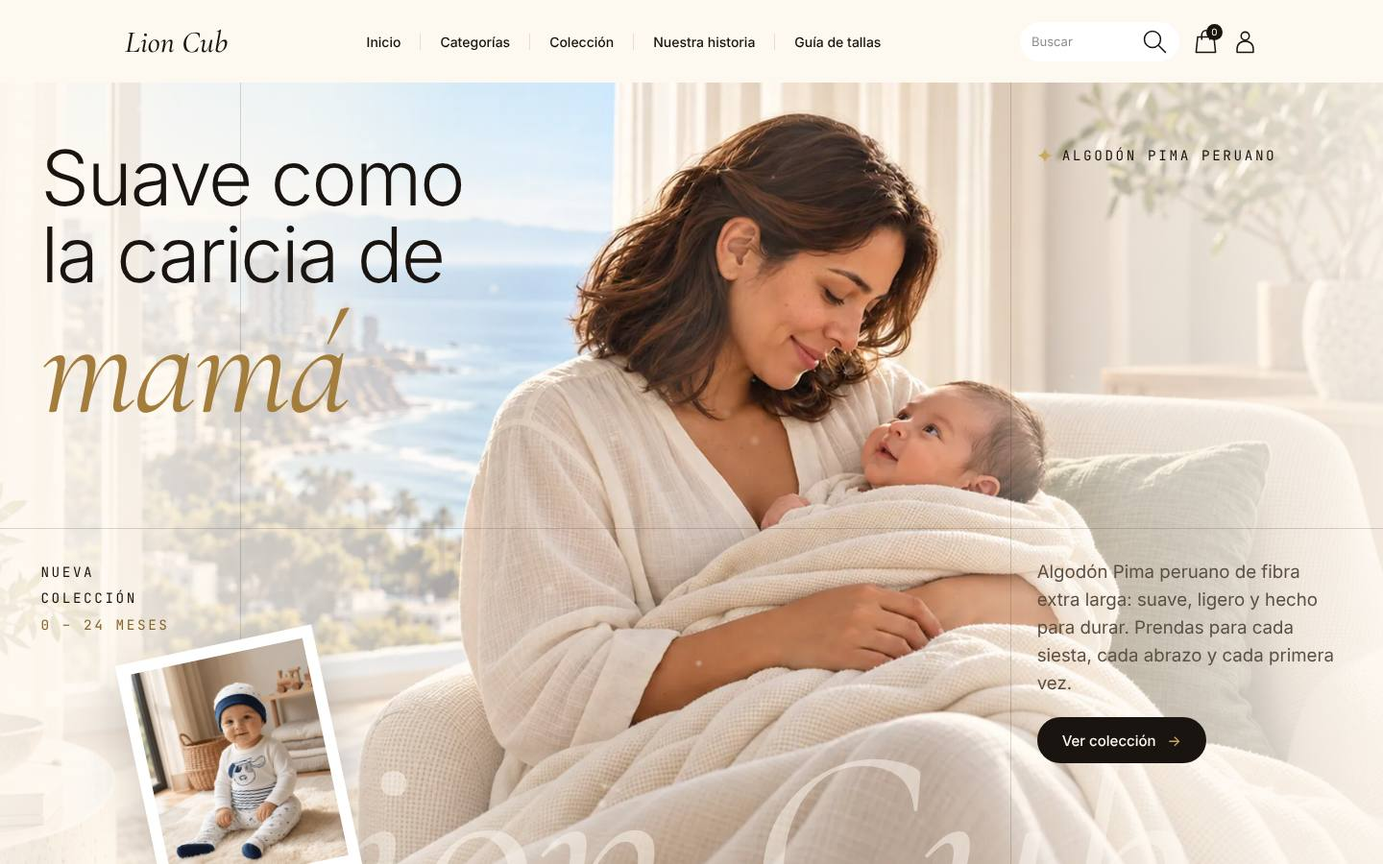
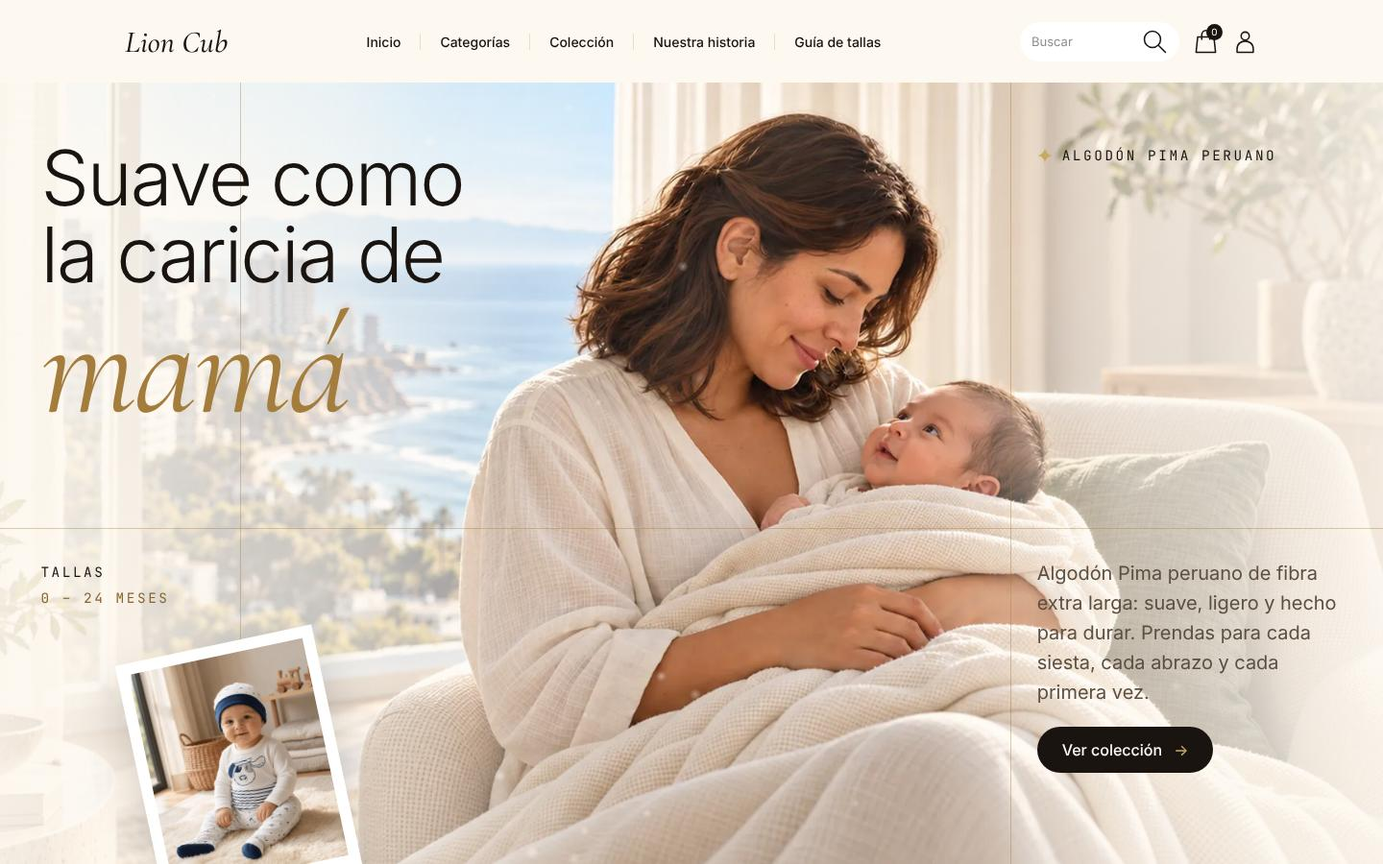
fix(home): correcciones del auditor de diseño en Fase H1
- Tablet (761–1024 px): el hero usa la distribución vertical; sin min-width que corte el texto.
- Sin marca de agua sobre la foto (IDENTIDAD §1).
- Entradas de 400 ms; texto corrido a 16 px; sin corazones decorativos ni ♥ leído por lectores.
- Carrusel con marco recto, texto a la izquierda y «Ver …» en vez de «Descubre …».
- «Tallas 0 – 24 meses» en lugar de «Nueva colección»; colores fuera de tokens corregidos.
- Capturas nuevas a 1440, 768 y 375 con imágenes cargadas; DT-30 a DT-35.

Claude-Session: https://claude.ai/code/session_01RGj7kZrHtgLxWEaSBArxwM

diff --git a/app/data/lion-cub-body.ts b/app/data/lion-cub-body.ts
@@ -3,14 +3,14 @@
 export const LION_CUB_BODY = `<svg width="0" height="0" style="position:absolute" aria-hidden="true"><defs><clipPath id="blob" clipPathUnits="objectBoundingBox"><path d="M.12,.12 C.2,.02 .34,.1 .47,.035 C.59,-.02 .67,.08 .8,.07 C.96,.055 1,.2 .97,.35 C.93,.5 1,.67 .93,.83 C.86,1 .7,.92 .55,.97 C.39,1 .3,.9 .14,.93 C-.04,.96 .02,.73 .045,.58 C.065,.42 .045,.25 .12,.12Z"/></clipPath><clipPath id="ageCut" clipPathUnits="objectBoundingBox"><path d="M.1,0 H.9 Q1,0 1,.1 V.9 Q1,1 .9,1 H.7 Q.62,1 .62,.92 Q.62,.83 .54,.83 H0 V.1 Q0,0 .1,0Z"/></clipPath>
 <symbol id="i-heart" viewBox="0 0 32 32"><path d="M15 28C12 24 1 17 3 9C5 1 14 3 16 10C20 1 29 5 28 12C27 19 19 25 15 28Z"/></symbol><symbol id="i-cloud" viewBox="0 0 50 35"><path d="M9 30C2 31-2 23 4 19Q6 17 10 18C3 7 15 1 21 9C21-2 38-1 38 11C49 8 52 21 43 24C49 32 36 35 32 29Q27 35 21 30Q15 34 9 30Z"/></symbol><symbol id="i-sun" viewBox="0 0 60 60"><circle cx="30" cy="30" r="14"/><path d="M30 2V9M30 51V58M2 30H9M51 30H58M10 10L15 15M45 45L50 50M10 50L15 45M45 15L50 10"/></symbol><symbol id="i-bag" viewBox="0 0 32 32"><path d="M6 10H26L28 29H4Z M11 13V8C11 0 21 0 21 8V13"/></symbol><symbol id="i-user" viewBox="0 0 32 32"><circle cx="16" cy="9" r="5"/><path d="M6 29V25C6 12 26 12 26 25V29Z"/></symbol><symbol id="i-search" viewBox="0 0 32 32"><circle cx="13" cy="13" r="10"/><path d="M21 21L29 29"/></symbol><symbol id="i-leaf" viewBox="0 0 40 40"><path d="M9 30C-2 18 11 7 32 5C35 20 25 34 9 30Z M4 37Q13 20 28 10 M13 24Q12 19 13 15 M19 19Q24 20 28 18"/></symbol><symbol id="i-truck" viewBox="0 0 34 32"><path d="M2 6H21V24H2ZM21 13H28L33 20V24H21"/><circle cx="8" cy="25" r="3"/><circle cx="27" cy="25" r="3"/></symbol><symbol id="i-shield" viewBox="0 0 32 32"><path d="M16 2L28 7V17Q26 25 16 30Q6 25 4 17V7ZM10 15L14 19L22 11"/></symbol><symbol id="i-move" viewBox="0 0 50 50"><path d="M14 10C8 8 5 13 7 20L10 28C8 34 11 40 18 40L35 37C41 36 44 32 41 28C39 25 33 26 29 25L24 12C22 7 17 7 14 10Z M10 28Q18 31 25 26 M12 14L21 12 M12 18L23 16 M9 38Q22 44 38 36"/><path d="M32 12Q38 9 40 5M36 18L45 16"/></symbol></defs></svg>
 <header class="wrap"><button class="hamburger" aria-label="Abrir menú" aria-expanded="false">☰</button><a href="#inicio" class="brand">Lion Cub<b>♥</b><svg class="brand-trail" viewBox="0 0 170 30" aria-hidden="true"><path d="M2 17C25 5 50 26 82 17S105 2 111 8S100 26 94 18S137 6 162 15"/><path d="M157 10L164 15L158 20"/></svg></a><nav aria-label="Navegación principal"><a href="#inicio">Inicio</a><details><summary>Categorías</summary><div class="drop"><a href="#edades">Compra por edad</a><button data-category="Conjuntos">Conjuntos y ajuares</button><button data-category="Bodies">Bodies</button><button data-category="Mantas">Mantas</button><button data-category="Pantalones">Pantalones</button></div></details><a href="#favoritos">Colección</a><a href="#historia">Nuestra historia</a><button data-info="tallas">Guía de tallas</button></nav><div class="tools"><form class="search" id="header-search"><input aria-label="Buscar prendas" placeholder="Buscar"><button aria-label="Buscar"><svg class="icon"><use href="#i-search"/></svg></button></form><button class="bag" aria-label="Abrir bolsa"><svg class="icon"><use href="#i-bag"/></svg><span class="count">0</span></button><a class="account" href="/login" aria-label="Mi cuenta"><svg class="icon"><use href="#i-user"/></svg></a></div></header>
-<main><section class="hx" id="inicio" aria-label="Lion Cub, algodón Pima peruano para bebés"><div class="hx-frame"><picture class="hx-photo"><source media="(max-width: 760px)" srcset="/hero/poster-mobile.webp" width="1080" height="1920"><img src="/hero/poster-desktop.webp" width="1920" height="1080" fetchpriority="high" decoding="async" alt="Mamá sonriendo mientras sostiene a su bebé envuelto en una manta de algodón, junto a una ventana con vista al mar"></picture><div class="hx-fx" aria-hidden="true"></div><div class="hx-rays" aria-hidden="true"></div><canvas class="hx-motes" data-motes="1" aria-hidden="true"></canvas><div class="hx-veil" aria-hidden="true"></div><div class="hx-mark" aria-hidden="true">Lion Cub</div><div class="hx-grid" aria-hidden="true"><i class="hx-gv1"></i><i class="hx-gv2"></i><i class="hx-gh"></i></div><p class="hx-eyebrow hx-in" style="--d:.15s"><svg viewBox="0 0 24 24" aria-hidden="true"><path d="M12 0c.6 6.6 5.4 11.4 12 12-6.6.6-11.4 5.4-12 12-.6-6.6-5.4-11.4-12-12C6.6 11.4 11.4 6.6 12 0z"/></svg>Algodón Pima peruano</p><h1 class="hx-title"><span class="hx-in" style="--d:.25s">Suave como</span><span class="hx-in" style="--d:.4s">la caricia de</span><em class="hx-in" style="--d:.55s">mamá</em></h1><p class="hx-meta hx-in" style="--d:.8s">Nueva<br>colección<br><b>0 – 24 meses</b></p><div class="hx-copy hx-in" style="--d:.85s"><p>Algodón Pima peruano de fibra extra larga: suave, ligero y hecho para durar. Prendas para cada siesta, cada abrazo y cada primera vez.</p><a class="hx-cta" href="#favoritos">Ver colección <span aria-hidden="true">→</span></a></div><button class="hx-pola" data-product="0" aria-label="Ver Navy Puppy"><img src="/lc-imgs/p0.webp" width="828" height="828" loading="lazy" decoding="async" alt="Bebé sentado con body blanco de perrito bordado, pantalón estampado y gorro azul marino"><span>Navy Puppy</span></button></div></section>
-<section class="campaign" aria-label="Colecciones destacadas"><div class="wrap carousel-shell"><div class="slider" tabindex="0" aria-roledescription="carrusel"><article class="slide active" aria-label="1 de 3"><div class="slide-copy"><h2>Pequeños<span>esenciales</span></h2><div class="heartline">♥</div><p>Suaves. Ligeros. Hechos para abrazar.<br>Prendas de algodón Pima que acompañan sus primeros días.</p><button class="textlink" data-product="14">Descubre Abrazo Crema →</button></div><img class="slide-image" data-asset="f14" alt="Conjunto Abrazo Crema de Lion Cub"></article><article class="slide" aria-label="2 de 3" aria-hidden="true"><div class="slide-copy"><h2>Primeros<span>abrazos</span></h2><div class="heartline">♥</div><p>Pequeños detalles, grandes recuerdos.<br>Conoce Navy Puppy, ternura marinera para sus primeros días.</p><button class="textlink" data-product="0">Descubre Navy Puppy →</button></div><img class="slide-image" data-asset="f0" alt="Conjunto Navy Puppy"></article><article class="slide" aria-label="3 de 3" aria-hidden="true"><div class="slide-copy"><h2>Dulces<span>comienzos</span></h2><div class="heartline">♥</div><p>Un poquito de flores, un montón de amor.<br>Floral Baby, delicadeza para sus primeros momentos.</p><button class="textlink" data-product="1">Descubre Floral Baby →</button></div><img class="slide-image" data-asset="f1" alt="Conjunto Floral Baby"></article><svg class="doodle sun" viewBox="0 0 60 60"><use href="#i-sun"/></svg></div><button class="round prev" aria-label="Colección anterior">←</button><button class="round next" aria-label="Siguiente colección">→</button><div class="dots"><button class="active" aria-label="Mostrar colección 1" aria-current="true"></button><button aria-label="Mostrar colección 2"></button><button aria-label="Mostrar colección 3"></button><button class="pause" aria-label="Pausar carrusel" hidden>Ⅱ</button></div></div></section>
-<section class="ages wrap" id="edades"><h2 class="section-heading">Compra por <em>edad</em></h2><div class="heartline">♥</div><div class="age-grid"><button class="age-card" data-age="0–3 meses"><img data-asset="age0" alt="Bebé de 0 a 3 meses con body celeste"><span class="age-label"><strong>0–3 meses</strong><span>Sus primeros abrazos</span></span></button><button class="age-card" data-age="4–6 meses"><img data-asset="age1" alt="Bebé con body blanco"><span class="age-label"><strong>4–6 meses</strong><span>Pequeños descubrimientos</span></span></button><button class="age-card" data-age="7–9 meses"><img data-asset="age2" alt="Bebé con conjunto azul pastel"><span class="age-label"><strong>7–9 meses</strong><span>Un mundo por explorar</span></span></button><button class="age-card" data-age="1–2 años"><img data-asset="age3" alt="Niña con conjunto rosa pastel"><span class="age-label"><strong>1–2 años</strong><span>Libertad para jugar</span></span></button></div></section>
-<section class="bestsellers wrap" id="favoritos"><h2 class="section-heading">Pequeños <em>favoritos</em></h2><div class="heartline">♥</div><button class="viewall" data-catalog>Ver todo　 →</button><div class="product-layout"><article class="feature"><div class="feature-art"><h3><small>Hechos para</small>pequeños abrazos</h3><div class="favorite">Suavidad<br>que enamora <svg class="favorite-heart" viewBox="0 0 32 32" aria-hidden="true"><use href="#i-heart"/></svg><svg class="favorite-trail" viewBox="0 0 180 90" aria-hidden="true"><path d="M163 6C170 49 111 14 115 43S55 79 21 64"/><path class="arrowhead" d="M34 59L19 64L28 75"/></svg></div><button class="product-image" data-product="14"><img data-asset="f14" alt="Abrazo Crema, conjunto de algodón Pima"></button></div><div class="product-info"><h3><button data-product="14">Abrazo Crema</button></h3><div class="price"><span>Algodón Pima</span><b>S/ 99.00</b></div><div class="size-buttons"><button data-product="14" data-size="0–3 meses">0–3 M</button><button data-product="14" data-size="4–6 meses">4–6 M</button><button data-product="14" data-size="7–9 meses">7–9 M</button></div></div></article><div class="product-grid" id="featured-grid"></div></div></section>
-<section id="catalogo" class="catalog wrap" hidden><h2 class="section-heading">Nuestra <em>colección</em></h2><div class="heartline">♥</div><div class="catalog-toolbar"><input id="catalog-search" type="search" placeholder="Busca una prenda…" aria-label="Buscar en la colección"><select id="category-filter" aria-label="Filtrar categoría"><option>Todas las prendas</option><option>Conjuntos</option><option>Bodies</option><option>Mantas</option><option>Pantalones</option><option>Baberos</option></select><button id="close-catalog">Cerrar colección ×</button></div><p class="small" id="catalog-notice"></p><div class="product-grid" id="catalog-grid"></div></section>
+<main><section class="hx" id="inicio" aria-label="Lion Cub, algodón Pima peruano para bebés"><div class="hx-frame"><picture class="hx-photo"><source media="(max-width: 760px)" srcset="/hero/poster-mobile.webp" width="1080" height="1920"><img src="/hero/poster-desktop.webp" width="1920" height="1080" fetchpriority="high" decoding="async" alt="Mamá sonriendo mientras sostiene a su bebé envuelto en una manta de algodón, junto a una ventana con vista al mar"></picture><div class="hx-fx" aria-hidden="true"></div><div class="hx-rays" aria-hidden="true"></div><canvas class="hx-motes" data-motes="1" aria-hidden="true"></canvas><div class="hx-veil" aria-hidden="true"></div><div class="hx-grid" aria-hidden="true"><i class="hx-gv1"></i><i class="hx-gv2"></i><i class="hx-gh"></i></div><p class="hx-eyebrow hx-in" style="--d:0s"><svg viewBox="0 0 24 24" aria-hidden="true"><path d="M12 0c.6 6.6 5.4 11.4 12 12-6.6.6-11.4 5.4-12 12-.6-6.6-5.4-11.4-12-12C6.6 11.4 11.4 6.6 12 0z"/></svg>Algodón Pima peruano</p><h1 class="hx-title"><span class="hx-in" style="--d:.05s">Suave como</span><span class="hx-in" style="--d:.1s">la caricia de</span><em class="hx-in" style="--d:.15s">mamá</em></h1><p class="hx-meta hx-in" style="--d:.3s">Tallas<br><b>0 – 24 meses</b></p><div class="hx-copy hx-in" style="--d:.3s"><p>Algodón Pima peruano de fibra extra larga: suave, ligero y hecho para durar. Prendas para cada siesta, cada abrazo y cada primera vez.</p><a class="hx-cta" href="#favoritos">Ver colección <span aria-hidden="true">→</span></a></div><button class="hx-pola" data-product="0" aria-label="Ver Navy Puppy"><img src="/lc-imgs/p0.webp" width="828" height="828" loading="lazy" decoding="async" alt="Bebé sentado con body blanco de perrito bordado, pantalón estampado y gorro azul marino"><span>Navy Puppy</span></button></div></section>
+<section class="campaign" aria-label="Colecciones destacadas"><div class="wrap carousel-shell"><div class="slider" tabindex="0" aria-roledescription="carrusel"><article class="slide active" aria-label="1 de 3"><div class="slide-copy"><h2>Pequeños<span>esenciales</span></h2><div class="heartline" aria-hidden="true"></div><p>Suaves. Ligeros. Hechos para abrazar.<br>Prendas de algodón Pima que acompañan sus primeros días.</p><button class="textlink" data-product="14">Ver Abrazo Crema →</button></div><img class="slide-image" data-asset="f14" alt="Conjunto Abrazo Crema de Lion Cub"></article><article class="slide" aria-label="2 de 3" aria-hidden="true"><div class="slide-copy"><h2>Primeros<span>abrazos</span></h2><div class="heartline" aria-hidden="true"></div><p>Pequeños detalles, grandes recuerdos.<br>Conoce Navy Puppy, ternura marinera para sus primeros días.</p><button class="textlink" data-product="0">Ver Navy Puppy →</button></div><img class="slide-image" data-asset="f0" alt="Conjunto Navy Puppy"></article><article class="slide" aria-label="3 de 3" aria-hidden="true"><div class="slide-copy"><h2>Dulces<span>comienzos</span></h2><div class="heartline" aria-hidden="true"></div><p>Un poquito de flores, un montón de amor.<br>Floral Baby, delicadeza para sus primeros momentos.</p><button class="textlink" data-product="1">Ver Floral Baby →</button></div><img class="slide-image" data-asset="f1" alt="Conjunto Floral Baby"></article><svg class="doodle sun" viewBox="0 0 60 60"><use href="#i-sun"/></svg></div><button class="round prev" aria-label="Colección anterior">←</button><button class="round next" aria-label="Siguiente colección">→</button><div class="dots"><button class="active" aria-label="Mostrar colección 1" aria-current="true"></button><button aria-label="Mostrar colección 2"></button><button aria-label="Mostrar colección 3"></button><button class="pause" aria-label="Pausar carrusel" hidden>Ⅱ</button></div></div></section>
+<section class="ages wrap" id="edades"><h2 class="section-heading">Compra por <em>edad</em></h2><div class="heartline" aria-hidden="true"></div><div class="age-grid"><button class="age-card" data-age="0–3 meses"><img data-asset="age0" alt="Bebé de 0 a 3 meses con body celeste"><span class="age-label"><strong>0–3 meses</strong><span>Sus primeros abrazos</span></span></button><button class="age-card" data-age="4–6 meses"><img data-asset="age1" alt="Bebé con body blanco"><span class="age-label"><strong>4–6 meses</strong><span>Pequeños descubrimientos</span></span></button><button class="age-card" data-age="7–9 meses"><img data-asset="age2" alt="Bebé con conjunto azul pastel"><span class="age-label"><strong>7–9 meses</strong><span>Un mundo por explorar</span></span></button><button class="age-card" data-age="1–2 años"><img data-asset="age3" alt="Niña con conjunto rosa pastel"><span class="age-label"><strong>1–2 años</strong><span>Libertad para jugar</span></span></button></div></section>
+<section class="bestsellers wrap" id="favoritos"><h2 class="section-heading">Pequeños <em>favoritos</em></h2><div class="heartline" aria-hidden="true"></div><button class="viewall" data-catalog>Ver todo　 →</button><div class="product-layout"><article class="feature"><div class="feature-art"><h3><small>Hechos para</small>pequeños abrazos</h3><div class="favorite">Suavidad<br>que enamora <svg class="favorite-heart" viewBox="0 0 32 32" aria-hidden="true"><use href="#i-heart"/></svg><svg class="favorite-trail" viewBox="0 0 180 90" aria-hidden="true"><path d="M163 6C170 49 111 14 115 43S55 79 21 64"/><path class="arrowhead" d="M34 59L19 64L28 75"/></svg></div><button class="product-image" data-product="14"><img data-asset="f14" alt="Abrazo Crema, conjunto de algodón Pima"></button></div><div class="product-info"><h3><button data-product="14">Abrazo Crema</button></h3><div class="price"><span>Algodón Pima</span><b>S/ 99.00</b></div><div class="size-buttons"><button data-product="14" data-size="0–3 meses">0–3 M</button><button data-product="14" data-size="4–6 meses">4–6 M</button><button data-product="14" data-size="7–9 meses">7–9 M</button></div></div></article><div class="product-grid" id="featured-grid"></div></div></section>
+<section id="catalogo" class="catalog wrap" hidden><h2 class="section-heading">Nuestra <em>colección</em></h2><div class="heartline" aria-hidden="true"></div><div class="catalog-toolbar"><input id="catalog-search" type="search" placeholder="Busca una prenda…" aria-label="Buscar en la colección"><select id="category-filter" aria-label="Filtrar categoría"><option>Todas las prendas</option><option>Conjuntos</option><option>Bodies</option><option>Mantas</option><option>Pantalones</option><option>Baberos</option></select><button id="close-catalog">Cerrar colección ×</button></div><p class="small" id="catalog-notice"></p><div class="product-grid" id="catalog-grid"></div></section>
 <section class="promo"><div class="wrap promo-inner"><div class="promo-title"><p>Bienvenido a Lion Cub</p><strong>10% OFF</strong></div><div class="promo-copy"><h3>En tu<br><em>primer pedido</em></h3><button id="coupon">Código: LION10</button><p class="promo-note">Propuesta visual · promoción y colores por confirmar.</p></div><img class="promo-pants" data-asset="pants" alt="Composición editorial: pantalones anticólicos en salvia, marfil y durazno"></div></section>
-<section class="why wrap" id="pima"><canvas class="lc-motes" data-motes="0.45" aria-hidden="true"></canvas><h2 class="section-heading">¿Por qué elegir <em>Lion Cub</em>?</h2><div class="heartline">♥</div><div class="benefits-bar"><span><svg class="icon"><use href="#i-cloud"/></svg>100% algodón Pima</span><span><svg class="icon"><use href="#i-shield"/></svg>Hecho en Perú</span><span><svg class="icon"><use href="#i-truck"/></svg>Envíos a todo el Perú</span></div><div class="why-grid"><svg class="benefit-paths" viewBox="0 0 1180 410" preserveAspectRatio="none" aria-hidden="true"><g><path d="M305 74C360 65 347 122 391 135S447 135 463 159"/><path d="M305 326C362 308 367 350 407 328S428 301 464 301"/><path d="M875 73C815 63 846 125 792 142S744 147 726 169"/><path d="M875 326C825 308 813 363 775 337S754 303 728 303"/></g><g class="end-dots"><circle cx="305" cy="74" r="4"/><circle cx="305" cy="326" r="4"/><circle cx="875" cy="73" r="4"/><circle cx="875" cy="326" r="4"/></g></svg><div class="feature-list left"><div class="benefit"><span class="bubble"><svg class="icon"><use href="#i-cloud"/></svg></span><div><h3>Ultra suave</h3><p>Un abrazo en cada prenda.</p></div></div><div class="benefit"><span class="bubble"><svg class="icon"><use href="#i-leaf"/></svg></span><div><h3>Algodón Pima</h3><p>Suavidad de origen peruano.</p></div></div></div><img class="fabric" data-asset="fabric" alt="Detalle de la textura suave del algodón"><div class="feature-list"><div class="benefit"><span class="bubble"><svg class="icon"><use href="#i-move"/></svg></span><div><h3>Para moverse</h3><p>Descubrir, jugar y volver a empezar.</p></div></div><div class="benefit"><span class="bubble"><svg class="icon"><use href="#i-heart"/></svg></span><div><h3>Con mucho amor</h3><p>Detalles que acompañan su día.</p></div></div></div></div></section>
-<section class="story" id="historia"><svg class="wave-top" viewBox="0 0 1280 100" preserveAspectRatio="none"><path fill="#faf7f6" d="M0 0H1280V70C1100 25 1110 140 845 72S616 25 440 65S210-30 0 55Z"/></svg><div class="wrap"><h2 class="section-heading">Pequeños detalles. <em>Grandes abrazos.</em></h2><div class="heartline">♥</div><div class="clothesline"><div class="polaroid"><img data-asset="age2" alt="Una sonrisa llena de ternura"></div><article class="note"><div class="hearts">♥ ♥ ♥ ♥ ♥</div><p>“La suavidad de un abrazo, en cada pequeño detalle.”</p><small>Nuestra inspiración</small></article><article class="note"><div class="hearts">♥ ♥ ♥ ♥ ♥</div><p>“Hecho para sus primeros días y todos los que vienen.”</p><small>De 0 a 2 años</small></article><article class="note"><div class="hearts">♥ ♥ ♥ ♥ ♥</div><p>“Algodón peruano. Amor que se siente cerquita.”</p><small>El mundo Lion Cub</small></article></div><div class="love-tag"><strong>100% Pima</strong> Para pequeños humanos y grandes momentos.　♡</div></div><svg class="wave-bottom" viewBox="0 0 1280 180" preserveAspectRatio="none"><path fill="#faf7f6" d="M0 105C50 170 110 40 230 30S375 15 440 0H775C870 42 996 35 1060 100S1180 155 1280 105V180H0Z"/></svg></section>
+<section class="why wrap" id="pima"><canvas class="lc-motes" data-motes="0.45" aria-hidden="true"></canvas><h2 class="section-heading">¿Por qué elegir <em>Lion Cub</em>?</h2><div class="heartline" aria-hidden="true"></div><div class="benefits-bar"><span><svg class="icon"><use href="#i-cloud"/></svg>100% algodón Pima</span><span><svg class="icon"><use href="#i-shield"/></svg>Hecho en Perú</span><span><svg class="icon"><use href="#i-truck"/></svg>Envíos a todo el Perú</span></div><div class="why-grid"><svg class="benefit-paths" viewBox="0 0 1180 410" preserveAspectRatio="none" aria-hidden="true"><g><path d="M305 74C360 65 347 122 391 135S447 135 463 159"/><path d="M305 326C362 308 367 350 407 328S428 301 464 301"/><path d="M875 73C815 63 846 125 792 142S744 147 726 169"/><path d="M875 326C825 308 813 363 775 337S754 303 728 303"/></g><g class="end-dots"><circle cx="305" cy="74" r="4"/><circle cx="305" cy="326" r="4"/><circle cx="875" cy="73" r="4"/><circle cx="875" cy="326" r="4"/></g></svg><div class="feature-list left"><div class="benefit"><span class="bubble"><svg class="icon"><use href="#i-cloud"/></svg></span><div><h3>Ultra suave</h3><p>Un abrazo en cada prenda.</p></div></div><div class="benefit"><span class="bubble"><svg class="icon"><use href="#i-leaf"/></svg></span><div><h3>Algodón Pima</h3><p>Suavidad de origen peruano.</p></div></div></div><img class="fabric" data-asset="fabric" alt="Detalle de la textura suave del algodón"><div class="feature-list"><div class="benefit"><span class="bubble"><svg class="icon"><use href="#i-move"/></svg></span><div><h3>Para moverse</h3><p>Descubrir, jugar y volver a empezar.</p></div></div><div class="benefit"><span class="bubble"><svg class="icon"><use href="#i-heart"/></svg></span><div><h3>Con mucho amor</h3><p>Detalles que acompañan su día.</p></div></div></div></div></section>
+<section class="story" id="historia"><svg class="wave-top" viewBox="0 0 1280 100" preserveAspectRatio="none"><path fill="#faf7f6" d="M0 0H1280V70C1100 25 1110 140 845 72S616 25 440 65S210-30 0 55Z"/></svg><div class="wrap"><h2 class="section-heading">Pequeños detalles. <em>Grandes abrazos.</em></h2><div class="heartline" aria-hidden="true"></div><div class="clothesline"><div class="polaroid"><img data-asset="age2" alt="Una sonrisa llena de ternura"></div><article class="note"><p>“La suavidad de un abrazo, en cada pequeño detalle.”</p><small>Nuestra inspiración</small></article><article class="note"><p>“Hecho para sus primeros días y todos los que vienen.”</p><small>De 0 a 2 años</small></article><article class="note"><p>“Algodón peruano. Amor que se siente cerquita.”</p><small>El mundo Lion Cub</small></article></div><div class="love-tag"><strong>100% Pima</strong> Para pequeños humanos y grandes momentos.</div></div><svg class="wave-bottom" viewBox="0 0 1280 180" preserveAspectRatio="none"><path fill="#faf7f6" d="M0 105C50 170 110 40 230 30S375 15 440 0H775C870 42 996 35 1060 100S1180 155 1280 105V180H0Z"/></svg></section>
 <section class="newsletter wrap"><img class="leftimg" data-asset="f17" alt="Body de algodón Pima"><div><h2>Un poquito de amor,<br><span>en tu correo.</span></h2><p>Nuevas prendas, pequeñas historias y sorpresas<br>para acompañar cada etapa.</p><form id="newsletter"><input type="email" required placeholder="Tu correo electrónico" aria-label="Tu correo electrónico"><button aria-label="Guardar correo">→</button></form><small id="newsletter-status">Solo cosas bonitas. Sin apuros.</small></div><img data-asset="f14" alt="Detalles suaves de la colección Lion Cub"></section></main>
 <footer class="wrap"><div class="footer-main"><div class="footer-brand"><a class="brand" href="#inicio">Lion Cub<b>♥</b></a><p class="soft">Suave en su piel, grande en amor.</p><p>Prendas para abrazar, descubrir y crecer. Algodón Pima peruano para sus primeros años.</p><div class="social"><a href="https://www.instagram.com/lioncubbabyclothing/" target="_blank" rel="noopener" aria-label="Instagram">◎</a><a href="https://wa.me/51920201943" target="_blank" rel="noopener" aria-label="WhatsApp">◉</a><a href="mailto:hola@lioncub.pe" aria-label="Correo">✉</a></div></div><div class="footer-col"><h3>Tienda</h3><button data-catalog>Todas las prendas</button><a href="#favoritos">Favoritos</a><button data-category="Conjuntos">Conjuntos</button><button data-category="Bodies">Bodies</button><button data-category="Mantas">Mantas</button><button data-category="Pantalones">Pantalones</button></div><div class="footer-col"><h3>Ayuda</h3><button data-info="preguntas">Preguntas frecuentes</button><button data-info="envios">Envíos</button><button data-info="cambios">Cambios</button><button data-info="tallas">Guía de tallas</button><a href="https://wa.me/51920201943" target="_blank" rel="noopener">Contáctanos</a></div><div class="footer-col"><h3>Nosotros</h3><a href="#historia">Nuestra historia</a><a href="#pima">¿Por qué Pima?</a><button data-info="cuidados">Tela y cuidados</button><a href="https://www.lioncub.pe/terminos" target="_blank" rel="noopener">Términos</a><a href="https://www.lioncub.pe/privacidad" target="_blank" rel="noopener">Privacidad</a></div><div class="footer-icons"><span><svg class="icon"><use href="#i-leaf"/></svg>100% algodón Pima</span><span><svg class="icon"><use href="#i-heart"/></svg>Hecho con amor</span><span><svg class="icon"><use href="#i-truck"/></svg>Envíos a todo el Perú</span><span><svg class="icon"><use href="#i-bag"/></svg>Yape / Plin</span></div></div><div class="copyright"><span>♡</span> Hecho con amor para pequeños humanos.</div><div class="legal">Lion Cub Baby Clothing · Lima, Perú · Diseño interactivo para implementación</div></footer>
 <div class="overlay" id="cart-overlay"><aside class="drawer" role="dialog" aria-modal="true" aria-labelledby="cart-title"><header><h2 id="cart-title">Tu bolsita de amor</h2><button class="close" aria-label="Cerrar bolsa">×</button></header><div id="cart-items"></div><div id="cart-bottom"><div class="total"><span>Subtotal</span><span id="cart-total"></span></div><p class="small">Precio referencial. El stock se confirma al procesar el pedido.</p><button class="pill full" id="checkout-btn">Finalizar compra <span>→</span></button><a class="pill full secondary" href="https://wa.me/51920201943" target="_blank" rel="noopener" id="whatsapp-order">Consultar por WhatsApp <span>→</span></a></div></aside></div><dialog id="product-dialog"><button class="close" aria-label="Cerrar producto">×</button><div id="product-detail"></div></dialog><dialog id="info-dialog"><button class="close" aria-label="Cerrar información">×</button><div class="info-body" id="info-body"></div></dialog><div class="toast" role="status" aria-live="polite"></div>

diff --git a/public/lc-editorial.css b/public/lc-editorial.css
@@ -31,13 +31,11 @@
 .hx-veil{pointer-events:none;background:
   linear-gradient(90deg,rgba(253,248,240,.9) 0%,rgba(253,248,240,.6) 25%,rgba(253,248,240,0) 45%,rgba(253,248,240,0) 67%,rgba(253,248,240,.62) 81%,rgba(253,248,240,.9) 100%)}
 
-.hx-grid i{position:absolute;background:rgba(26,20,16,.16);pointer-events:none}
+.hx-grid i{position:absolute;background:rgba(164,124,59,.38);pointer-events:none}
 .hx-gv1{left:calc(200.6*var(--u));top:0;bottom:0;width:1px}
 .hx-gv2{left:calc(843.6*var(--u));top:0;bottom:0;width:1px}
 .hx-gh{top:calc(372*var(--u));left:0;right:0;height:1px}
 
-.hx-mark{position:absolute;left:50%;bottom:calc(-50*var(--u));transform:translateX(-50%);white-space:nowrap;pointer-events:none;
-  font-family:var(--lc-display);font-style:italic;font-weight:400;font-size:calc(250*var(--u));line-height:1;color:var(--lc-bg);opacity:.5}
 
 .hx-eyebrow,.hx-meta{font-family:var(--lc-mono);text-transform:uppercase;letter-spacing:.18em;font-weight:500;color:var(--lc-ink);margin:0}
 .hx-eyebrow{position:absolute;left:calc(866*var(--u));top:calc(52*var(--u));display:flex;align-items:center;gap:10px;font-size:max(12px,calc(11.5*var(--u)))}
@@ -51,15 +49,15 @@
 .hx-meta{position:absolute;left:calc(34*var(--u));top:calc(398*var(--u));font-size:max(12px,calc(11.5*var(--u)));line-height:1.9}
 .hx-meta b{font-weight:500;color:var(--lc-gold-text)}
 
-.hx-copy{position:absolute;left:calc(866*var(--u));top:calc(398*var(--u));width:calc(258*var(--u));min-width:230px}
-.hx-copy p{margin:0 0 20px;font-family:var(--lc-body);font-size:max(15px,calc(15*var(--u)));line-height:1.55;color:var(--lc-ink-soft)}
+.hx-copy{position:absolute;left:calc(866*var(--u));top:calc(398*var(--u));width:calc(258*var(--u))}
+.hx-copy p{margin:0 0 20px;font-family:var(--lc-body);font-size:max(16px,calc(16*var(--u)));line-height:1.55;color:var(--lc-ink-soft)}
 .hx-cta{display:inline-flex;align-items:center;gap:12px;min-height:48px;padding:0 26px;border-radius:999px;background:var(--lc-ink);color:var(--lc-bg);
-  font-family:var(--lc-body);font-weight:500;font-size:15px;text-decoration:none;transition:background-color .2s ease,transform .2s ease}
-.hx-cta:hover{background:#3a2e25;color:var(--lc-bg)}
+  font-family:var(--lc-body);font-weight:500;font-size:16px;text-decoration:none;transition:background-color .2s ease,transform .2s ease}
+.hx-cta:hover{background:var(--lc-ink-soft);color:var(--lc-bg)}
 .hx-cta:active{transform:scale(.98)}
 .hx-cta span{color:var(--lc-gold)}
 
-.hx-pola{position:absolute;left:calc(118*var(--u));top:calc(468*var(--u));width:calc(168*var(--u));min-width:120px;margin:0;border:0;cursor:pointer;
+.hx-pola{position:absolute;left:calc(118*var(--u));top:calc(468*var(--u));width:calc(168*var(--u));margin:0;border:0;cursor:pointer;
   background:#fff;padding:calc(10*var(--u)) calc(10*var(--u)) calc(34*var(--u));box-shadow:0 calc(16*var(--u)) calc(36*var(--u)) rgba(26,20,16,.2);
   transform:rotate(-12deg);transition:transform .3s ease}
 .hx-pola:hover{transform:rotate(-9deg) translateY(-4px)}
@@ -70,18 +68,18 @@
 .hx-cta:focus-visible,.hx-pola:focus-visible{outline:2px solid var(--lc-gold-deep);outline-offset:4px}
 
 @media (prefers-reduced-motion:no-preference){
-  .hx-in{animation:hx-rise .8s cubic-bezier(.2,.7,.2,1) var(--d,0s) both}
-  .hx-pola{animation:hx-drop 1s cubic-bezier(.2,.8,.25,1) 1s both}
+  .hx-in{animation:hx-rise .4s cubic-bezier(.2,.7,.2,1) var(--d,0s) both}
+  .hx-pola{animation:hx-drop .4s cubic-bezier(.2,.8,.25,1) .35s both}
   .hx-rays{animation:hx-rays 9s ease-in-out infinite alternate}
-  @keyframes hx-rise{from{opacity:0;transform:translateY(18px)}}
-  @keyframes hx-drop{from{opacity:0;transform:translateY(-50px) rotate(-2deg)}to{opacity:1;transform:rotate(-12deg)}}
+  @keyframes hx-rise{from{opacity:0;transform:translateY(12px)}}
+  @keyframes hx-drop{from{opacity:0;transform:translateY(-24px) rotate(-6deg)}to{opacity:1;transform:rotate(-12deg)}}
   @keyframes hx-rays{0%{opacity:.28;transform:translateX(-1.5%)}100%{opacity:.48;transform:translateX(1.5%)}}
 }
 @media (prefers-reduced-motion:reduce){.hx-rays{opacity:.32}}
 
-/* Celular: la foto cubre el marco y el texto se reacomoda encima */
-@media (max-width:760px){
-  .hx-frame{--u:calc(100cqw / 400);aspect-ratio:auto;height:min(190cqw,calc(100svh - 70px));min-height:600px}
+/* Celular y tablet (hasta 1024 px): la foto cubre el marco y el texto se reacomoda encima */
+@media (max-width:1024px){
+  .hx-frame{--u:calc(min(100cqw, 560px) / 400);aspect-ratio:auto;height:min(190cqw,calc(100svh - 70px));min-height:600px}
   .hx-photo img{object-position:50% 62%}
   .hx-veil{background:linear-gradient(180deg,rgba(253,248,240,.94) 0%,rgba(253,248,240,.72) 28%,rgba(253,248,240,0) 44%,rgba(253,248,240,0) 58%,rgba(253,248,240,.82) 76%,rgba(253,248,240,.97) 100%)}
   .hx-gv1,.hx-gv2{display:none}
@@ -91,10 +89,9 @@
   .hx-title em{font-size:calc(62*var(--u))}
   .hx-meta{display:none}
   .hx-copy{left:16px;right:16px;top:auto;bottom:24px;width:auto;min-width:0}
-  .hx-copy p{font-size:15px;max-width:34ch}
+  .hx-copy p{font-size:16px;max-width:38ch}
   .hx-pola{left:auto;right:18px;top:auto;bottom:calc(222*var(--u));width:96px;min-width:0;padding:6px 6px 24px}
   .hx-pola span{font-size:14px;bottom:3px}
-  .hx-mark{font-size:calc(116*var(--u));bottom:calc(196*var(--u))}
 }
 
 /* ============================================================
@@ -121,7 +118,7 @@ nav{font-weight:500}
 
 /* Botones: primario relleno tinta, flecha en oro */
 .pill{background:var(--lc-ink);color:var(--lc-bg);font-weight:500;min-height:48px}
-.pill:hover{background:#3a2e25;color:var(--lc-bg)}
+.pill:hover{background:var(--lc-ink-soft);color:var(--lc-bg)}
 .pill span{background:transparent;color:var(--lc-gold);width:auto;height:auto;font-size:18px}
 .pill.secondary{background:transparent;color:var(--lc-ink);border:1px solid var(--lc-ink)}
 .pill.secondary:hover{background:var(--lc-bg-warm);color:var(--lc-ink)}
@@ -167,7 +164,7 @@ nav{font-weight:500}
 .polaroid,.note{background:#fff;box-shadow:0 14px 30px rgba(26,20,16,.12)}
 .polaroid{padding:12px 12px 40px;transform:rotate(-6deg)}
 .note p{font-family:var(--lc-display);font-style:italic;font-size:21px;line-height:1.35;color:var(--lc-ink)}
-.note .hearts{color:var(--lc-gold);letter-spacing:.3em}
+.note .hearts{display:none}
 .note small{font-family:var(--lc-mono);font-size:11px;letter-spacing:.14em;text-transform:uppercase;color:var(--lc-ink-mute-text)}
 .love-tag{background:transparent;border:1px solid var(--lc-gold);color:var(--lc-ink-soft)}
 .love-tag strong{font-family:var(--lc-display);font-weight:500;color:var(--lc-ink)}
@@ -195,8 +192,13 @@ nav>a,nav>details,nav>button{border-right-color:var(--lc-rule)}
 .bubble{background:var(--lc-bg-warm);color:var(--lc-gold-deep);border-radius:50%;transform:none}
 .bubble svg{transform:none}
 .note:nth-child(3){background:#fff}
-.note .hearts{color:var(--lc-gold)}
+.note p{margin-top:0}
 .footer-col h3:after{background:var(--lc-gold)}
 .copyright span{color:var(--lc-gold-deep)}
 .catalog-toolbar input,.catalog-toolbar select{border-color:var(--lc-rule)}
 .cart-item{border-bottom-color:var(--lc-rule)}
+
+/* Carrusel alineado al hero: marco recto, texto a la izquierda */
+.slider{border-radius:2px}
+.slide-copy{text-align:left}
+.slide .heartline{margin:16px 0 18px}

diff --git a/public/lc-hero.js b/public/lc-hero.js
@@ -10,7 +10,7 @@
   /* ---------- 1. Viento (filtros SVG) ---------- */
   function wind() {
     var host = document.querySelector(".hx-fx");
-    if (!host || !matchMedia("(min-width: 761px)").matches) return;
+    if (!host || !matchMedia("(min-width: 1025px)").matches) return;
     var src = "/hero/poster-desktop.webp";
     var zones = [
       // [id, base frequency, frecuencias animadas, escala, escalas animadas, duración, rectángulos de máscara x,y,w,h]

diff --git a/plan.md b/plan.md
@@ -21,7 +21,7 @@
 | 4 | Congelamiento + velocidad (LCP < 2.5 s móvil) + prueba de compra real | ⬜ |
 | 5 | Lanzamiento | ⬜ |
 | A1 | Rediseño del panel admin (navegación, tablero, pedidos, productos) — spec `docs/requisitos/admin-rediseno-2026-10-19.md` | 🟡 implementado en rama `claude/admin-rediseno` (PR borrador) — falta auditor |
-| H1 | Hero editorial + home alineada a IDENTIDAD (opción B «puente») — spec `docs/requisitos/hero-editorial-2026-11-04.md` | 🔵 en curso en rama `claude/hero-editorial` (PR #121) |
+| H1 | Hero editorial + home alineada a IDENTIDAD (opción B «puente») — spec `docs/requisitos/hero-editorial-2026-11-04.md` | 🟡 implementado en rama `claude/hero-editorial` (PR #121) — auditor: corregido todo salvo la foto del hero (decide Heber) |
 
 ## Fase 2 — Críticos de compra
 - [x] **2.1 Resiliencia de la colección** (`app/components/Collection.tsx`): `try/catch/finally` en la carga para que un fallo del fetch NO deje "Cargando…" eterno; cae al estado vacío. _(hecho en rama; criterio: con la base caída, la sección no se cuelga)._
@@ -78,19 +78,19 @@ Rama `claude/correcciones-auditoria-lanzamiento` (PR en borrador). Fuente: `Lion
 
 ## Fase H1 — Hero editorial y home alineada a IDENTIDAD (2026-11-04)
 > Decisiones de Heber: IDENTIDAD.md manda (P1), opción B (P2), fase nueva tras el lanzamiento (P3). Solo la home pública (`app/page.tsx` + `LION_CUB_BODY` + `lc-styles.css` + `lc-app.js`). No toca checkout, bolsa, pagos ni catálogo SSR.
-- [ ] **H1.1 Hero editorial** — reemplaza `section.hero` (letras con fotos, doodles, ola) por el hero del prototipo.
+- [x] **H1.1 Hero editorial** — reemplaza `section.hero` (letras con fotos, doodles, ola) por el hero del prototipo.
   - Criterio: foto mamá+bebé como `<img fetchpriority="high">` (LCP, < 200 KB); titular «Suave como la caricia de *mamá*»; un solo CTA «Ver colección» → `#favoritos`; polaroid con un producto real que abre su ficha; viento SVG solo escritorio, luz y motas en todos; quieto con `prefers-reduced-motion`.
   - Verificar: `npm run lint` · `npm run build` · capturas 1440 y 390 · GC-01, GC-02 a mano.
   - Archivos: `app/data/lion-cub-body.ts`, `public/lc-hero.css` (nuevo), `public/lc-hero.js` (nuevo), `app/page.tsx`. Tamaño: M. Depende de: —
-- [ ] **H1.2 Tokens IDENTIDAD en la home** — `:root` de `lc-styles.css` pasa a crema/tinta/oro; Nunito → Inter (cuerpo) y Cormorant (titulares); botones relleno tinta, acento oro ≤ 10 %.
+- [x] **H1.2 Tokens IDENTIDAD en la home** — `:root` de `lc-styles.css` pasa a crema/tinta/oro; Nunito → Inter (cuerpo) y Cormorant (titulares); botones relleno tinta, acento oro ≤ 10 %.
   - Criterio: ningún `font-family:Nunito` ni `--peach`/`--sage` como color de bloque en la home; contraste AA (tokens de texto de ADR 0003).
   - Verificar: lint · build · capturas de cada sección. Archivos: `public/lc-styles.css`. Tamaño: S. Depende de: H1.1
-- [ ] **H1.3 Hilos editoriales** — titulares «sans ligera + palabra en Cormorant cursiva»; la línea fina del hero reemplaza `♥` centrados y olas; etiquetas en JetBrains Mono.
+- [x] **H1.3 Hilos editoriales** — titulares «sans ligera + palabra en Cormorant cursiva»; la línea fina del hero reemplaza `♥` centrados y olas; etiquetas en JetBrains Mono.
   - Criterio: ningún `.heartline` ni `.wave*` visible; un solo patrón de titular en toda la home.
   - Archivos: `app/data/lion-cub-body.ts`, `public/lc-styles.css`. Tamaño: M. Depende de: H1.2
-- [ ] **H1.4 Polaroid y motas** — el tendedero de «Pequeños detalles» usa la misma polaroid del hero; motas de algodón tenues en «¿Por qué elegir Lion Cub?».
+- [x] **H1.4 Polaroid y motas** — el tendedero de «Pequeños detalles» usa la misma polaroid del hero; motas de algodón tenues en «¿Por qué elegir Lion Cub?».
   - Archivos: `public/lc-styles.css`, `public/lc-hero.js`. Tamaño: S. Depende de: H1.3
-- [ ] **Punto de control H1** — capturas antes/después (móvil y escritorio) en el PR, veredicto APROBADO de `auditor-diseno`, PSI móvil LCP < 2.5 s en el preview de Vercel, OK de Heber.
+- [ ] **Punto de control H1** (auditor ronda 1: RECHAZADO 6.5/10 → corregidos #1 tablet, #3 marca de agua, #4–#8; #9–#12 a DT-30–DT-35; pendiente #2 foto) — capturas antes/después (móvil y escritorio) en el PR, veredicto APROBADO de `auditor-diseno`, PSI móvil LCP < 2.5 s en el preview de Vercel, OK de Heber.
 
 ## Notas
 - El **inglés va al lanzamiento** — selector EN/ES visible. Aprobado por Heber 2026-10-11.

diff --git a/deuda-tecnica.md b/deuda-tecnica.md
@@ -33,3 +33,9 @@
 | DT-27 | El contador de pedidos nuevos del menú se refresca al navegar, no en tiempo real (Supabase Realtime) ni tras cambiar un estado en la misma página. | `app/admin/components/AdminShell.tsx` | baja | 2026-10-19 |
 | DT-28 | «Comprobante inválido» abre WhatsApp con `window.open` después de un `await` (y ahora tras el diálogo de confirmación): algunos bloqueadores de ventanas pueden impedirlo. Conducta previa; mostrar enlace en el aviso si se bloquea. | `app/admin/pedidos/page.tsx` | baja | 2026-10-19 |
 | DT-29 | **Seguridad (hallazgo del auditor, PR #110):** `GET /admin` sin sesión ya trae `stats` en el payload RSC (`app/admin/page.tsx` es componente de servidor; AdminShell solo oculta la vista en el cliente) → incumple «autorización en servidor» (regla 3). Este PR **suma cifras** a ese payload (ventas de hoy/7 días, pedidos abiertos por estado, pagos por verificar, lista de espera). Corregir en un PR de seguridad aparte: proteger `/admin` en servidor y endurecer la RLS (relacionado con DT-24). | `app/admin/page.tsx`, `proxy.ts`/RLS | alta | 2026-10-19 |
+| DT-30 | Tokens duplicados en la home: `--lc-*` en `lc-editorial.css` y los nombres viejos de `lc-styles.css` (`--peach`, `--green`, `--sage`) redefinidos con valores de IDENTIDAD. Unificar en un solo juego de tokens cuando se pase la home a componentes. | `public/lc-styles.css`, `public/lc-editorial.css` | baja | 2026-11-05 |
+| DT-31 | El encabezado y el pie muestran el wordmark «Lion Cub» como texto en Cormorant cursiva, no el logo `public/logo-solid.png` (IDENTIDAD §1). Ya era así antes de H1. Decidir con Heber. | `app/data/lion-cub-body.ts` | baja | 2026-11-05 |
+| DT-32 | La ficha de producto (`#product-dialog`) se abre pegada arriba a la izquierda en escritorio (también en producción). | `public/lc-styles.css` (dialog) | media | 2026-11-05 |
+| DT-33 | La promo visible dice «Propuesta visual · promoción y colores por confirmar.» (también en producción). Confirmar la promo LION10 o quitar la nota. | `app/data/lion-cub-body.ts` (`.promo-note`) | media | 2026-11-05 |
+| DT-34 | Fuentes Nunito en `public/lc-fonts/` ya no se usan en la home tras H1.2. Borrar si nada más las usa. | `public/lc-fonts/` | baja | 2026-11-05 |
+| DT-35 | Viento del hero por zonas fijas en coordenadas de la foto `poster-desktop.webp`: si se cambia la foto, hay que mover los rectángulos de máscara en `lc-hero.js`. | `public/lc-hero.js` | baja | 2026-11-05 |
